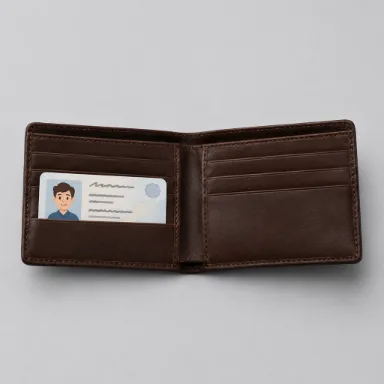
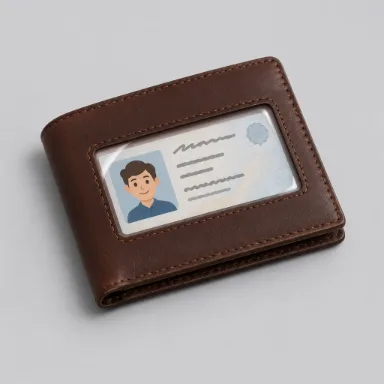
feat(data): 컨베이어 1배속 0.8초·옮길 때마다 효과음, 신분증 지갑을 닫힌 지갑 사진으로(가림 자리 맞춤), 검수 화면 대기 시간 여유(PC가 바쁠 때 느림)

diff --git a/data/missions/m1.js b/data/missions/m1.js
@@ -35,12 +35,12 @@
       phone_back:      { label: 'phone',    icons: ['phone'],    name: '뒷면 스마트폰', art: { photo: 'phone-back' }, rare: true }
     },
     // 목적 밖 개인정보 카드(설계 2026-11-08 ①, DR.Privacy): 흔한 모습 카드에만. 신분증·메시지는 사진의 곁가지 → 가리기 뒤 사용
-    // ⚠ wallet-id 사진은 펼친 지갑 모습이지만 설계(흔한 모습만)대로 닫힌 지갑 종류로 센다 — 사용자 확인 목록
+    // wallet-id = 닫힌 지갑의 투명 카드 칸으로 신분증이 보이는 사진(2026-11-08 Codex 다시 그림) → 닫힌 지갑 종류로 센다
     privacy: {
       on: true,
       cards: [
         { id: 'p_wallet_id', key: 'wallet_closed', fix: 'mask', at: 0.5, what: '신분증', art: { photo: 'wallet-id' },
-          mask: [{ x: 0.09, y: 0.43, w: 0.36, h: 0.17, look: 'bar' }] },
+          mask: [{ x: 0.24, y: 0.27, w: 0.55, h: 0.35, look: 'bar' }] },
         { id: 'p_phone_msg', key: 'phone_front', fix: 'mask', at: 0.6, what: '메시지 알림', art: { photo: 'phone-lock-message' },
           mask: [{ x: 0.3, y: 0.27, w: 0.43, h: 0.32, look: 'bar' }] }
       ]

diff --git a/data/js/config.js b/data/js/config.js
@@ -25,7 +25,7 @@
     maxDt: 0.05,            // s — 프레임 간격 상한(탭 전환 뒤 건너뛰기 방지)
     ambiguousWeight: 2,     // 올바르게 분류한 "?" 카드는 2장 몫
     fakeLimit: 2,           // 한 장면에 이름표가 틀린 카드가 이만큼 쌓이면 오염(실패)
-    conveyor: { step: 1.2 }, // s — 2 임무 결과 컨베이어에서 물건 하나가 함까지 가는 시간(2배속은 절반)
+    conveyor: { step: 0.8 }, // s — 결과 컨베이어(1·2 임무)에서 물건 하나가 함까지 가는 시간(2배속은 절반). 1.2 → 0.8(2026-11-08 사용자 요청)
     maxPixelRatio: 1.25,    // 달리기 3D 화소 비율 상한(기기 DPR이 커도 이 이상 그리지 않음). ?low=1이면 1, 계단 다듬기 끔(저사양 모드)
     maxSupplements: 2,
     supplementFreeSlots: 6,

diff --git a/data/js/sfx.js b/data/js/sfx.js
@@ -47,10 +47,13 @@
     warn: function (a) { tone(a, 1180, 0, 0.07, 'square', 0.07); tone(a, 1180, 0, 0.07, 'square', 0.07, 0.12); },
     burn: function (a) { noise(a, 0.3, 0.45); tone(a, 220, 60, 0.3, 'sawtooth', 0.1); },
     full: function (a) { tone(a, 200, 160, 0.14, 'square', 0.1); },
-    ui: function (a) { tone(a, 520, 0, 0.06, 'triangle', 0.1); }
+    ui: function (a) { tone(a, 520, 0, 0.06, 'triangle', 0.1); },
+    // 컨베이어: 집게가 물건을 함으로 옮길 때 짧은 '톡'
+    sort: function (a) { tone(a, 380, 620, 0.07, 'triangle', 0.12); tone(a, 760, 0, 0.05, 'sine', 0.06, 0.05); }
   };
 
   function play(name) {
+    if (root.__DR_SFX_LOG) root.__DR_SFX_LOG.push(name); // 테스트용 기록(테스트가 켤 때만)
     if (muted || !SOUNDS[name]) return;
     var a = audio();
     if (!a) return;

diff --git a/data/js/ui-conveyor.js b/data/js/ui-conveyor.js
@@ -100,6 +100,7 @@
       belt.classList.add('run');
       later(function () {
         claw.classList.add('grab');
+        DR.Sfx.play('sort');
         flyTo(e, it, Math.round(ms * 0.45));
         mark(e, it); say(it);
         later(function () {

diff --git a/data/CLAUDE.md b/data/CLAUDE.md
@@ -4,7 +4,7 @@
 - **사용자 결정(재논의 금지)**: 설계 `docs/specs/2026-11-08-data-purpose-design.md`, 계획 `docs/plans/2026-11-08-data-purpose.md`. 방향 = 개인정보는 **최대한 보호하는 쪽으로 단순하게**(챕터 끝 정답 방향은 늘 거절, 가명 처리는 한 줄만, 법 설명 없음).
 - **① 목적 밖 개인정보 카드**(`js/privacy.js` DR.Privacy, 순수): 임무 파일 `privacy: { on, cards: [{ id, key, fix: 'mask'|'remove', at, art, mask: [{x,y,w,h,look}] }] }`. 카드 = 흔한 종류 카드에 `privateId`만 붙인 것(진짜 `key` 그대로 → 가린 카드 = 그 종류의 정상 카드). `Stream.build` 끝에서 **난수 없이** 표시(그 종류 중 앞 15% 밖·`at` 비율 자리) → 카드 자리·uid·벽은 그대로, 첫 판만. 스냅숏 비교(`walls-helper cardsOf`)는 `privateId`를 빼고, `privacy.test`가 "표시만 늘었다"를 따로 지킴.
   - 1 임무 신분증 지갑(`wallet_closed`로 셈)·메시지 잠금화면(`phone_front`) 가리기 / 2 임무 캔 버리는 사람 얼굴 ×2(`can_drink`) 빼기 / 3 임무 행인 얼굴 강변길(`river_now`)·택시 번호판 역 앞(`station_now`) 가리기 / 4 임무 이름 흘림 획 또박또박 2·4(`neat_2`·`neat_4`) 가리기. **네 임무 모두 켬**(1·2 임무 사진 3장이 와서 384² webp q0.82로 변환, 원본 PNG는 gitignore).
-  - ⚠ `wallet-id` 사진은 **펼친 지갑 모습**인데 설계(흔한 모습만)대로 닫힌 지갑 종류로 센다 — 사용자 확인 목록(바꾸려면 `m1.js` 그 카드 `key`).
+  - `wallet-id` 사진 = **닫힌 지갑의 투명 카드 칸으로 신분증이 보이는 모습**(처음 받은 펼친 지갑판은 1 임무의 드문 모습 '열린 지갑'과 헷갈려 2026-11-08 사용자 결정으로 다시 그림) → 닫힌 지갑 종류로 센다. 가림 상자 = 신분증 카드 전체(x 0.24·y 0.27·w 0.55·h 0.35).
   - 그림: `DR.Cards.artId` = `privateId`(가리면 `privateId#masked`) → 달리기·검수·보충 모두 같은 길. `cardart.js` `maskOver`(문서·번호판·이름 = 검은 막대, 얼굴 = 흐리게), 3 임무 `people`·`plate`, 4 임무 `nameLine`(답 칸 밖 위쪽, 이어 쓴 고리 — 숫자 모양 아님). 개인정보 카드는 그 종류와 같은 씨앗.
   - 검수: 크게 보기에 **모든 카드 공통 '가리기'**(개인정보 아닌 카드 → "가릴 개인정보가 없어"), '가림' 표시, 안내 한 줄. 제출 때 `DR.Privacy.check` → 그대로면 감독관이 막음(어느 카드인지 말 안 함, 버튼은 '검수로 돌아가기'만 — `DR.UI.supervisorBlock`), 2 임무 얼굴을 가리면 "얼굴을 가려도 …" 문장으로 막고 빼야 통과. 장면 판정과는 따로. 달리는 중 알림 없음.
   - 결과: 가릴 수 있던 카드를 뺐으면 마지막 장면에 감독관 "가렸으면 살려 쓸 수 있었어"(`state.privCaught` = 첫 달리기 뒤 가방의 가리기 카드 id, 저장, 옛 저장 []).
